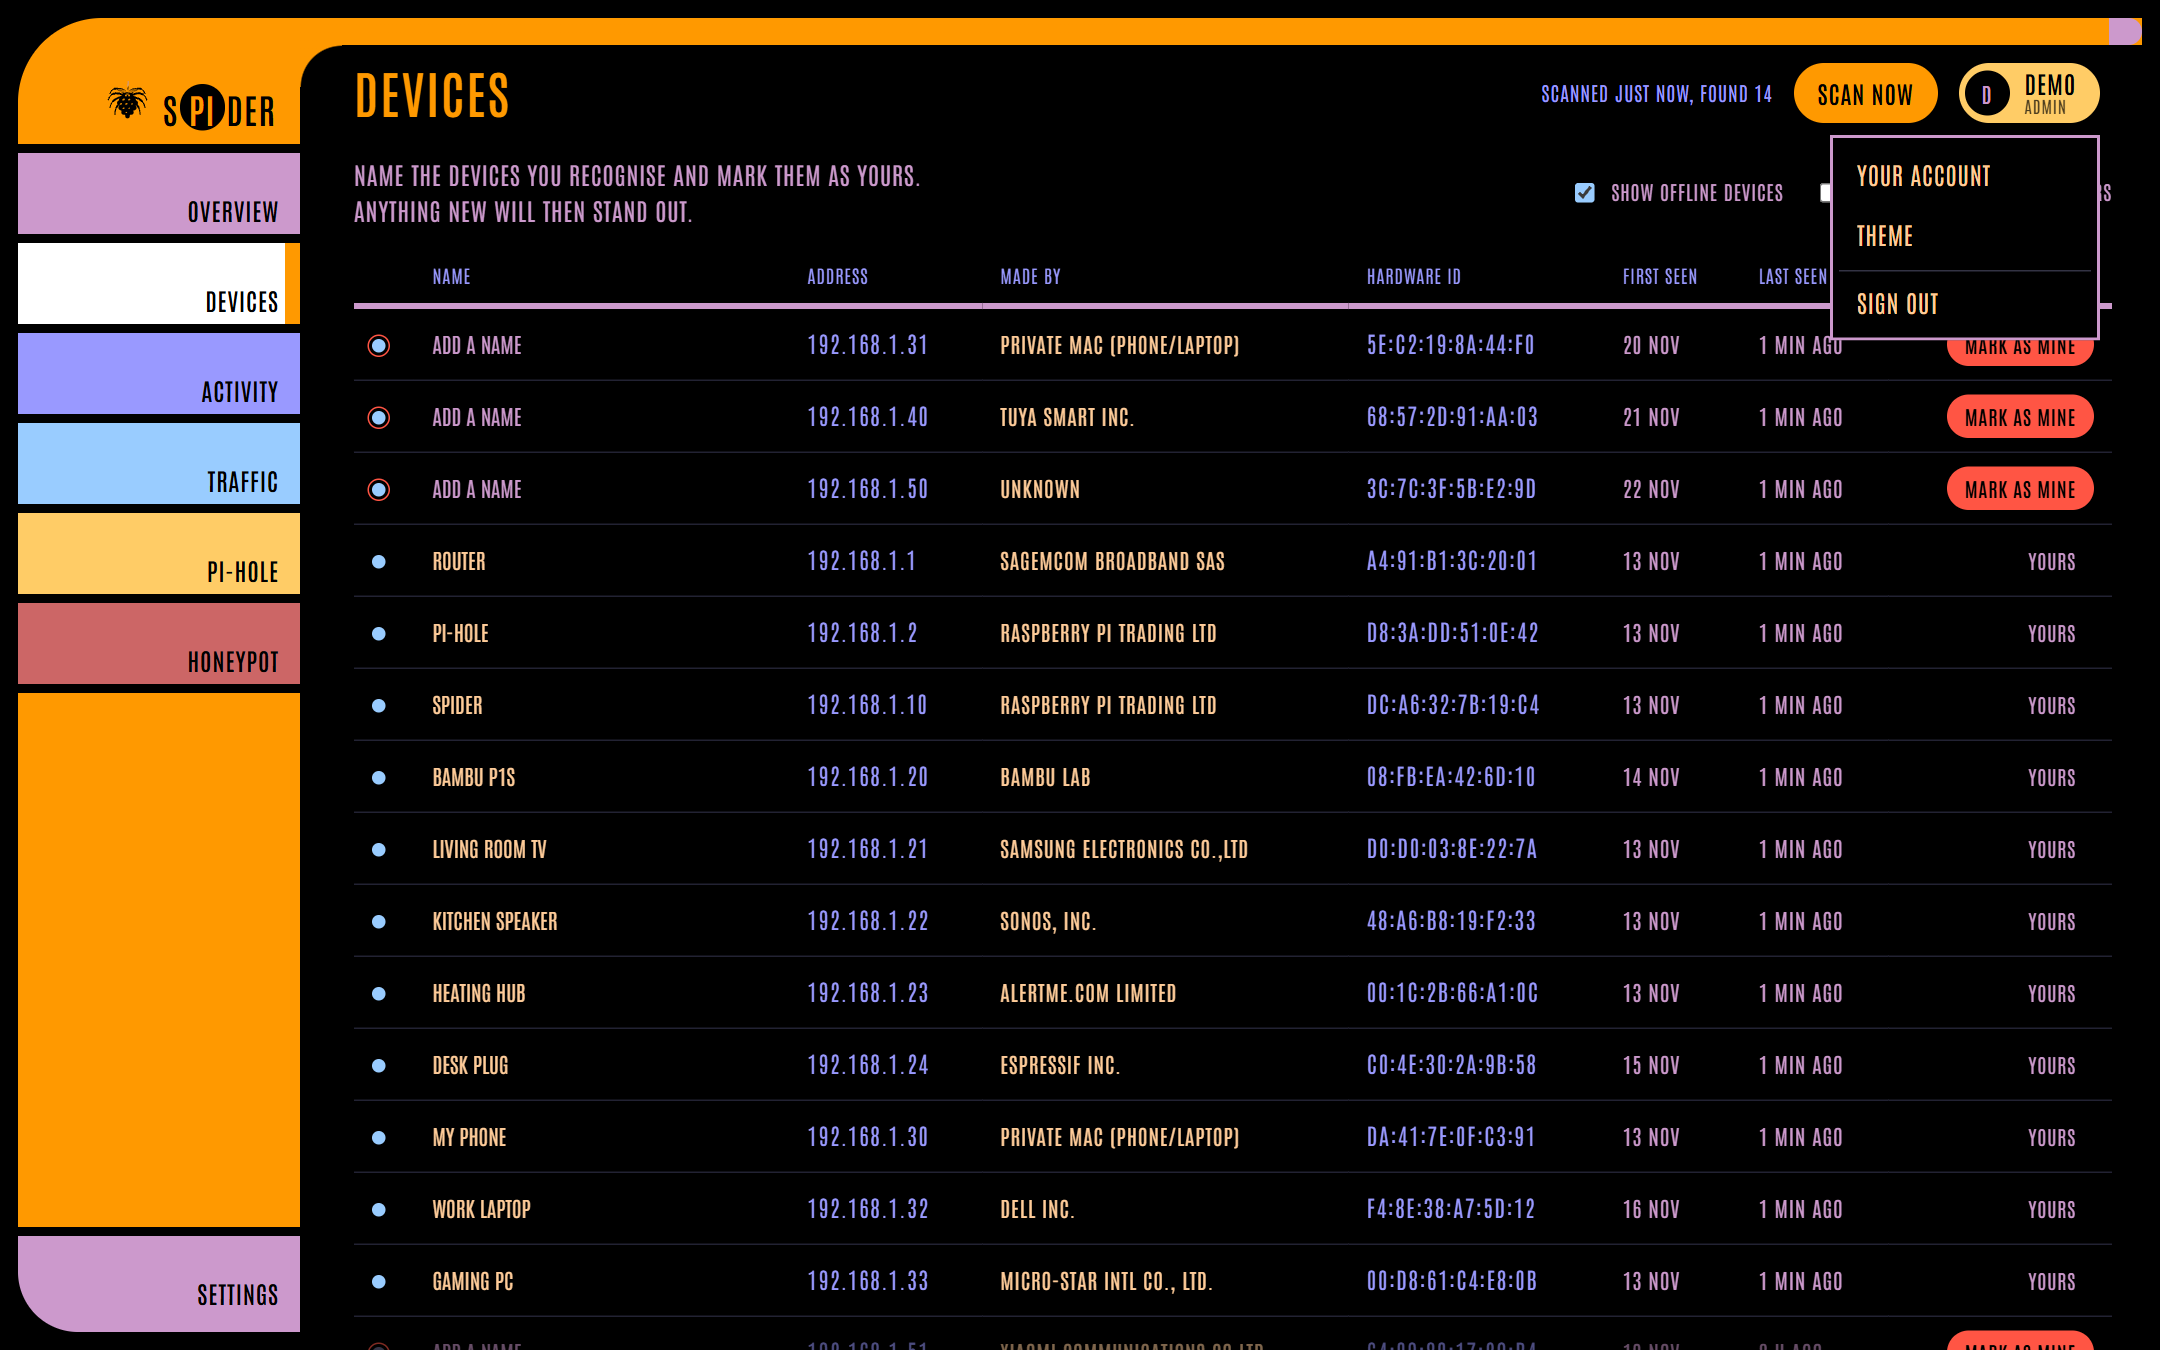
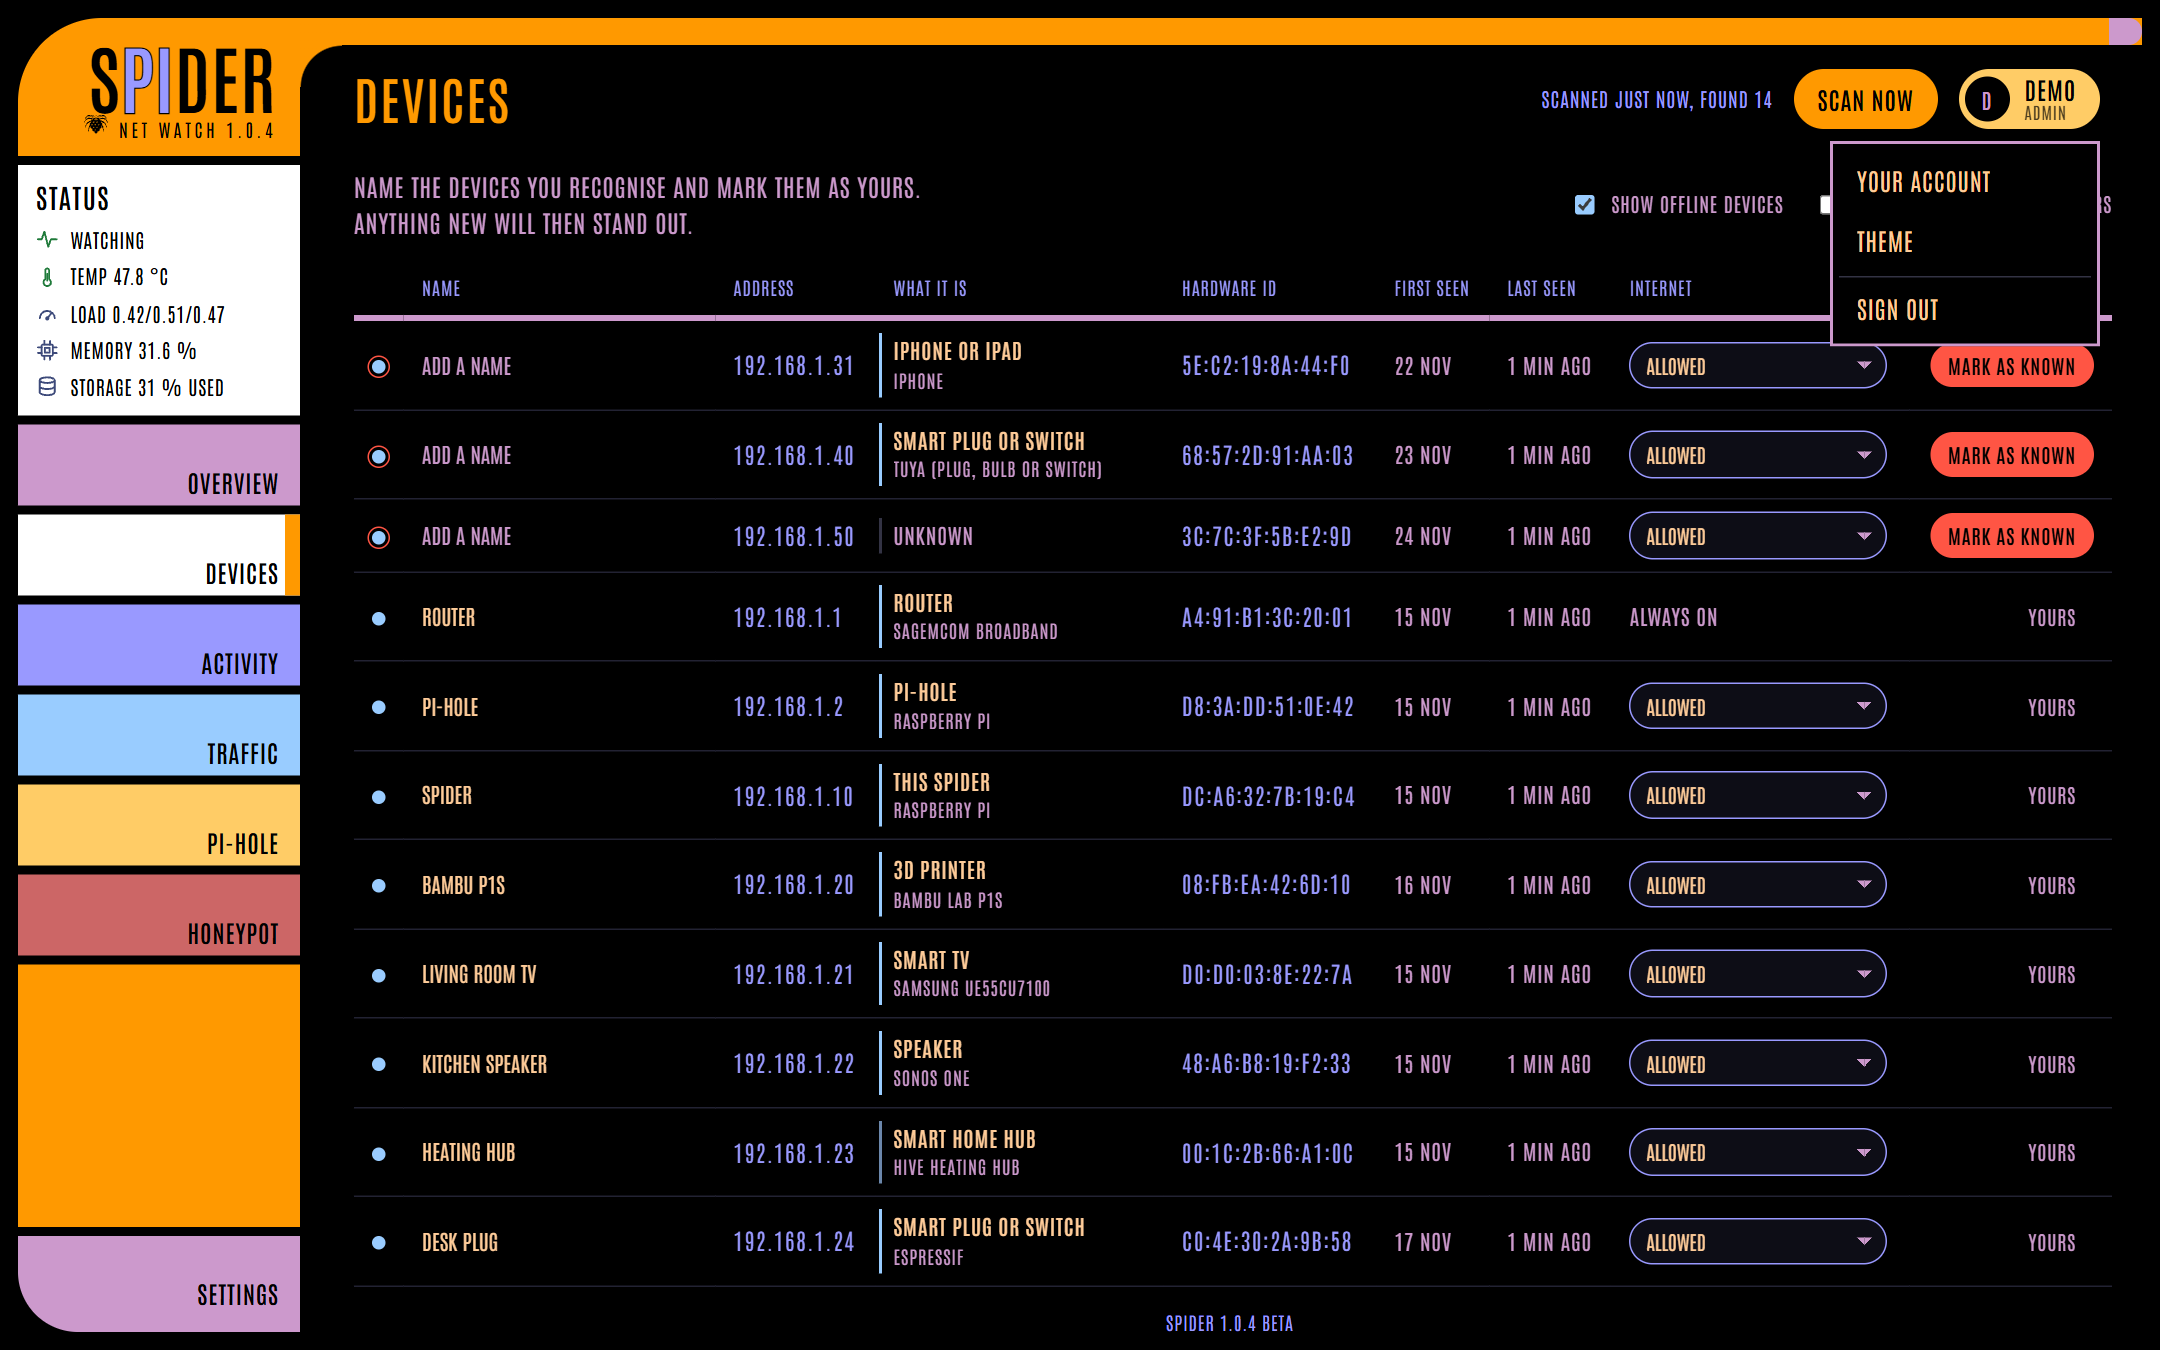
SPIder 1.0.4 Beta: fresh README screenshots
Retaken from the demo: the Bridge name plate wordmark, the status panel
with icons, the new footer version and the Pi-hole spacing. The
screenshot script now hides the demo's pretend update badge.

diff --git a/scripts/screenshots.py b/scripts/screenshots.py
@@ -80,7 +80,7 @@ def signed_in(browser, theme: str, motion: bool = False, **ctx):
 
 def snap(page, path: str, name: str, settle: float = 1.2, before=None) -> None:
     page.goto(BASE + path, wait_until="networkidle")
-    page.add_style_tag(content=".demo-badge, .demo-hint { display: none !important; }")
+    page.add_style_tag(content=".demo-badge, .demo-hint, .update-pill { display: none !important; }")
     page.wait_for_timeout(int(settle * 1000))
     if before:
         before(page)

diff --git a/spider/__init__.py b/spider/__init__.py
@@ -1,7 +1,7 @@
 """SPIder - a Raspberry Pi home network watchtower and honeypot."""
 
 # Bumped by 0.0.1 with every release pushed to GitHub (and tagged vX.Y.Z there).
-__version__ = "1.0.3"
+__version__ = "1.0.4"
 __release__ = "Beta"   # "" once SPIder is out of beta
 
 
